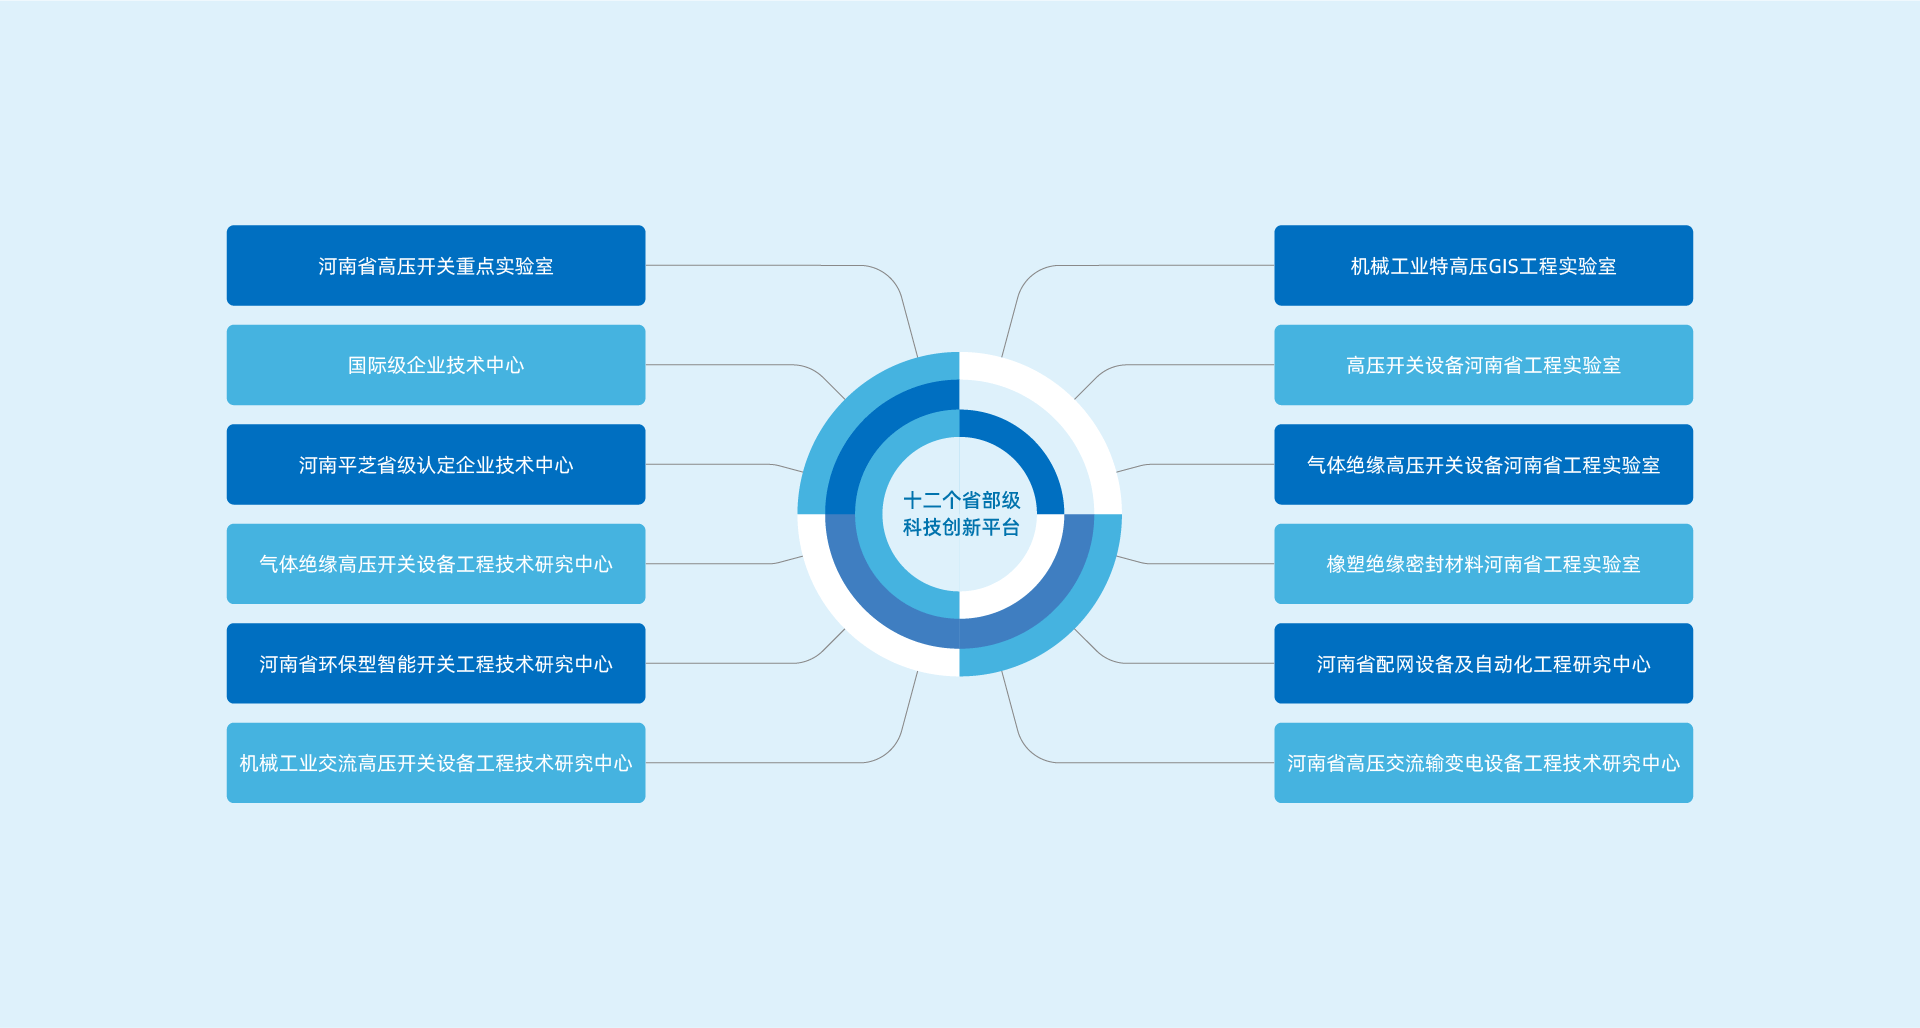
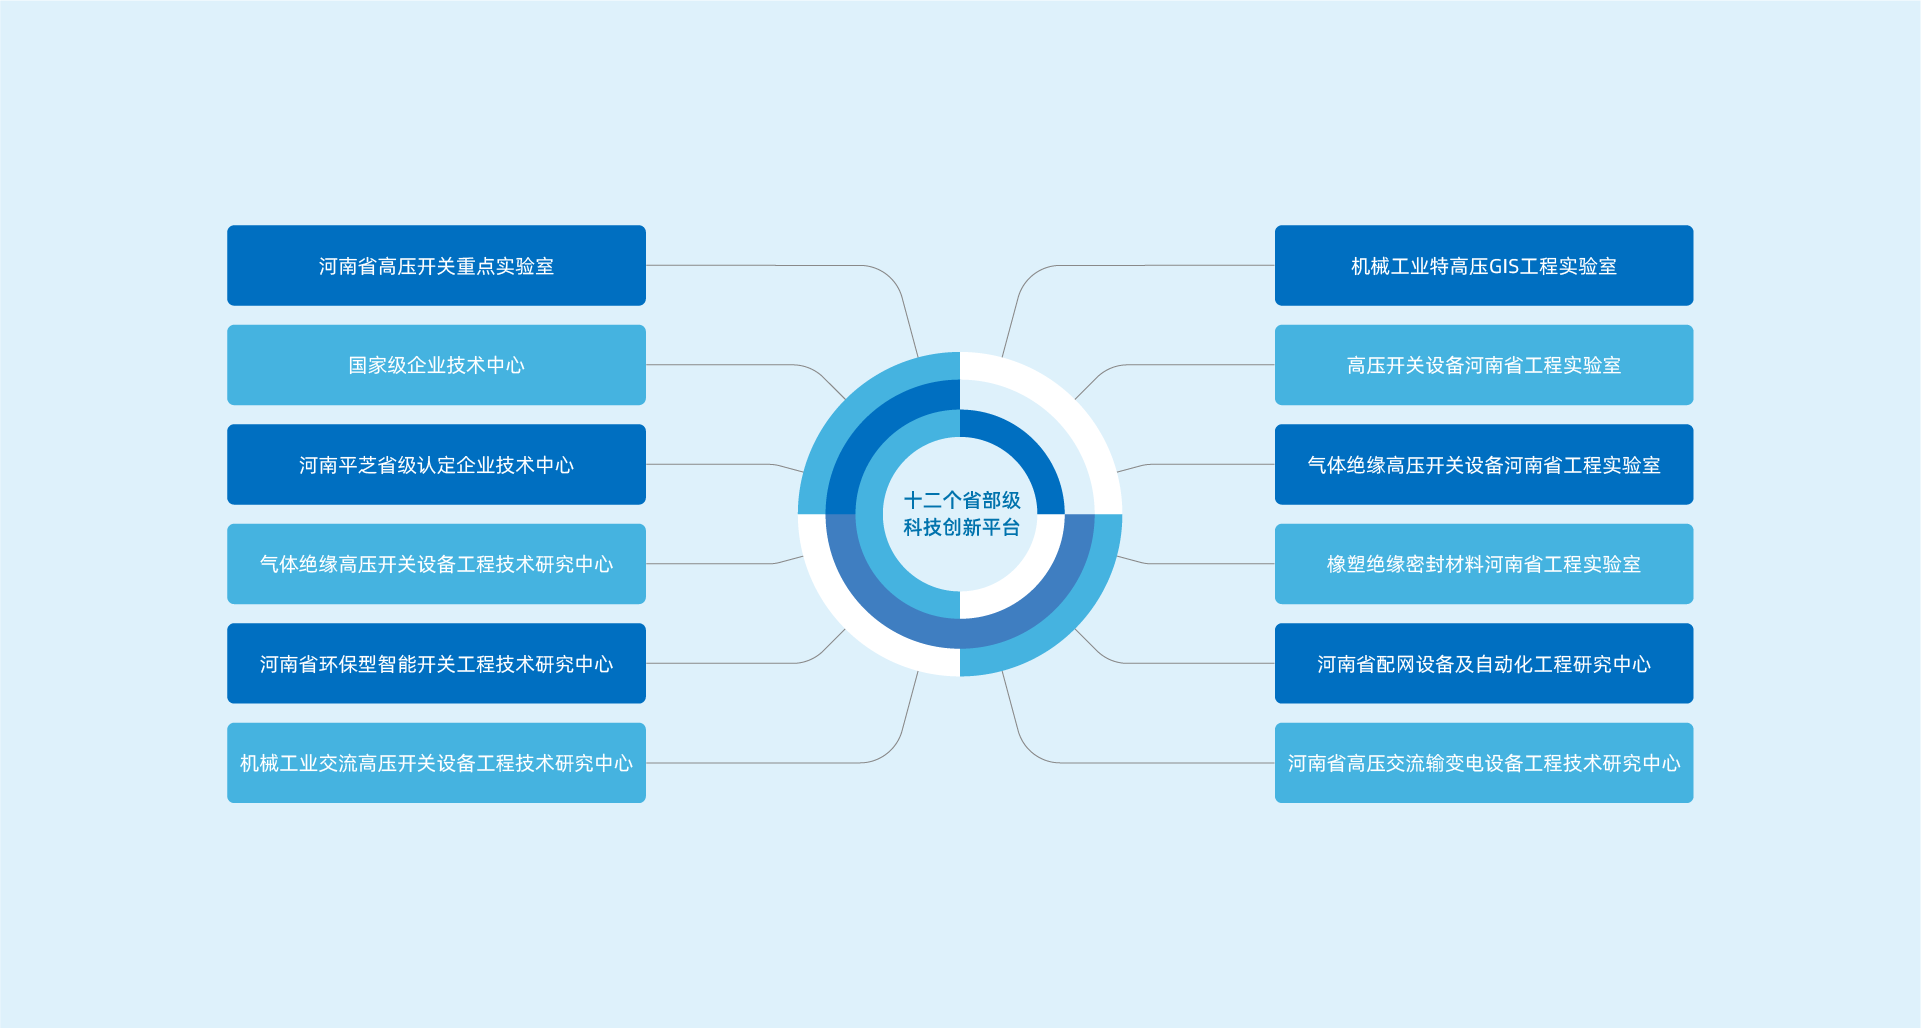
完善了一些小问题

diff --git a/pingGaoWebDevelop/src/views/_1_aboutPinggao/seniorHonor/myIndex.vue b/pingGaoWebDevelop/src/views/_1_aboutPinggao/seniorHonor/myIndex.vue
@@ -200,16 +200,9 @@ onMounted(initializeObservers); // 在组件挂载时调用
   text-align: center;
 }
 
-@media (min-width: 475px) and (max-width: 780px) {
-  .content .info {
-    width: 21%;
-    height: 17.25rem;
-    margin-bottom: 3.125rem;
-    text-align: center;
-  }
-}
 .content .info .img img {
-  height: 14.875rem;
+  width: 26.9375rem;
+  height: 18.625rem;
   transform: scale(0.5); /* 初始缩小 */
   opacity: 0; /* 初始不可见 */
   visibility: hidden; /* 初始隐藏 */
@@ -234,4 +227,5 @@ onMounted(initializeObservers); // 在组件挂载时调用
 .footer .myButton {
   margin: auto;
 }
+
 </style>

diff --git a/pingGaoWebDevelop/src/views/homePage/homePage-1.vue b/pingGaoWebDevelop/src/views/homePage/homePage-1.vue
@@ -34,7 +34,7 @@
 .homePage {
   position: relative;
   width: 100%;
-  // height: 100%;
+  height: 100%;
   background-image: url("../../assets/imgs/_11_welcomeImgs/homePageBg.png");
   background-repeat: no-repeat;
   background-size: cover;
@@ -52,8 +52,8 @@
       position: absolute;
       top: 0;
       left: 0;
-      img{
-        width:15rem;
+      img {
+        width: 15rem;
       }
     }
 
@@ -147,6 +147,11 @@
     color: rgb(255, 255, 255);
     text-align: center;
     margin-bottom: 5.3125rem;
+  }
+}
+@media (min-width: 576px) and (max-width: 992px) {
+  body {
+    background-color: lightgreen;
   }
 }
 </style>

diff --git a/pingGaoWebDevelop/src/views/homePage/homePage-2.vue b/pingGaoWebDevelop/src/views/homePage/homePage-2.vue
@@ -261,7 +261,7 @@ onMounted(() => {
         </div>
       </div>
     </div>
-    <hr style="border: 1px solid #80b7e0" />
+    <hr style="border: 0.0625rem solid #80b7e0" />
     <div class="product_content">
       <div class="product_box">
         <div class="product_content_box">
@@ -528,7 +528,6 @@ onMounted(() => {
   width: 7.375rem;
   height: 0.1875rem;
   background-color: rgb(255, 255, 255);
-  border-radius: 50%;
   margin: 0 0.3125rem;
   cursor: pointer;
 }
@@ -558,6 +557,7 @@ onMounted(() => {
 }
 
 .nav_introduction .p {
+  display: block;
   font-size: 1.5rem;
   font-family: "AlibabaPuHuiTi_2_55_Regular";
   color: rgb(255, 255, 255);